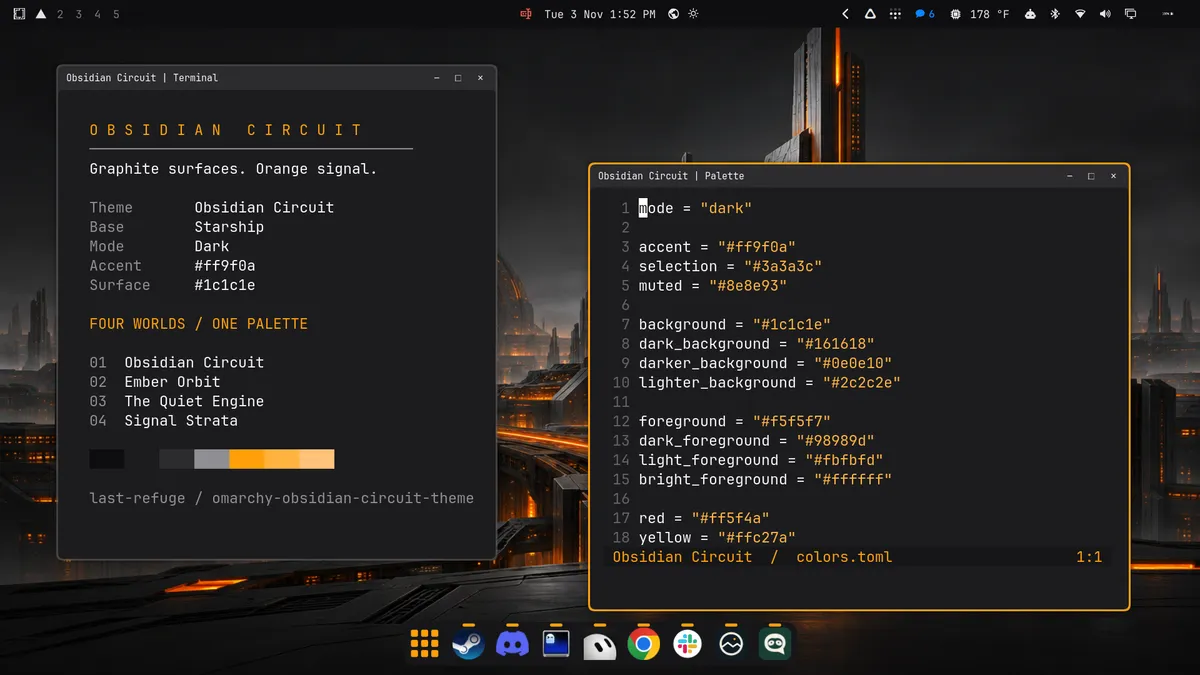
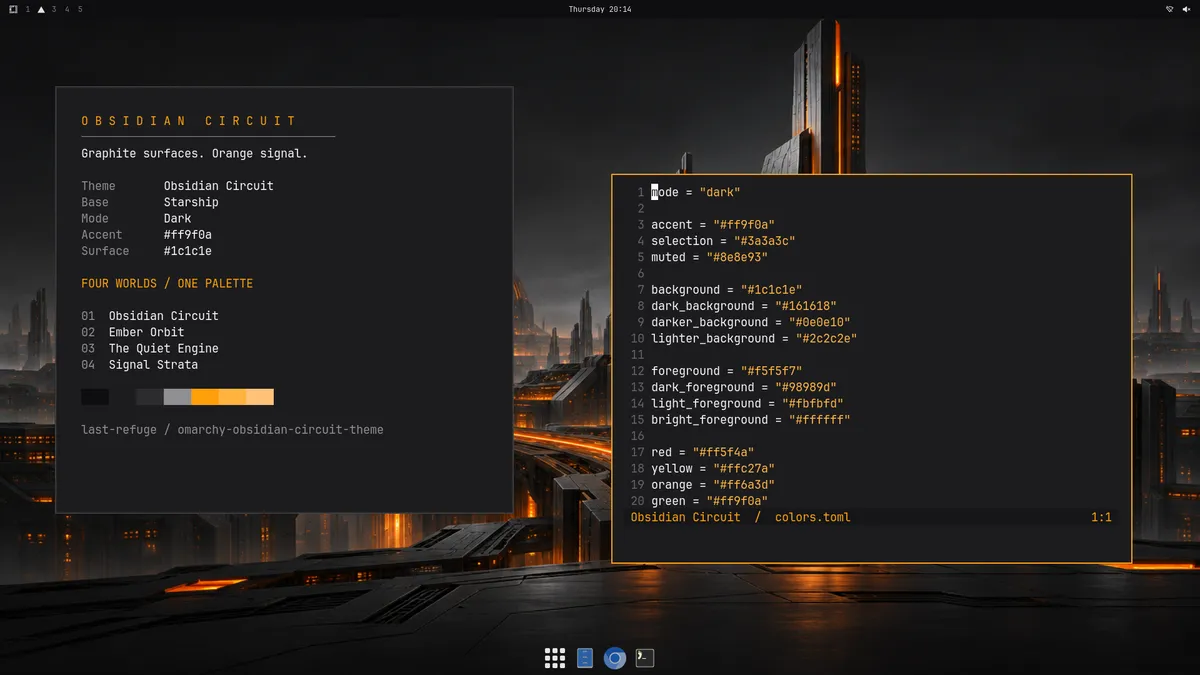
Recapture preview with the stock dock

diff --git a/docs/VALIDATION.md b/docs/VALIDATION.md
@@ -20,9 +20,11 @@ This is a staging/template check, not a claim that every supported application h
 
 ## Preview
 
-`preview.png` is a 1920 × 1080 capture from a temporary virtual display in a real running Omarchy/Hyprland session. The display contained only a terminal showing theme demonstration content and Neovim showing this repository's palette file. No personal windows, mouse pointer, or notifications are present. Neovim is focused to show the theme's orange active-window border. The dock in this capture has personal styling that is not part of the theme.
+`preview.png` is a metadata-stripped 1920 × 1080 capture from a temporary virtual output in a separate Hyprland 0.56.2 session running the packaged Omarchy 4.5.0-3 shell. The session used a Bubblewrap-isolated home, runtime directory, and D-Bus. The packaged `omarchy.bar` and `omarchy.dock` plugins were selected; no personal dock clone or dock patch was loaded. The user's live shell configuration, dock clone, workspace layouts, theme files, and background link were unchanged, verified against a recorded baseline.
 
-The gallery copy is 1200 × 675, WebP quality 80, stripped of metadata, and 59,936 bytes. The original-resolution screenshot is also stripped of metadata. The temporary preview windows and display were removed after capture.
+The display contained only a Foot terminal showing public theme demonstration content and Neovim showing the theme's `colors.toml`. It uses `backgrounds/1-obsidian-circuit.webp`, with Neovim focused to show the orange active-window border. The stock dock has its normal app-grid icon and running-app indicator, without the removed graphite plate. No mouse pointer, notifications, personal windows, or private information are present. The image was visually inspected after capture. The temporary compositor, virtual output, shell, and demonstration processes were stopped afterwards.
+
+The gallery copy is 1200 × 675, WebP quality 80, stripped of metadata, and 50,646 bytes. It is copied byte-for-byte to the gallery PR's `assets/themes/obsidian-circuit.webp`.
 
 Gallery instructions checked: https://github.com/omacom/omarchy-site#adding-your-theme
 

diff --git a/README.md b/README.md
@@ -4,7 +4,7 @@ A dark [Omarchy](https://omarchy.org/) theme with graphite surfaces, bright oran
 
 ![Obsidian Circuit on an Omarchy desktop](preview.png)
 
-Desktop preview showing the orange active-window border. The dock in this capture has personal styling that is not part of the theme.
+Desktop preview showing the orange active-window border.
 
 The palette builds on Omarchy's **Starship** theme. Obsidian Circuit adds custom shell surfaces and a collection of AI-generated science-fiction artwork. The top bar has a solid near-black background with no edge border. Menus use charcoal surfaces and orange selection accents.
 
